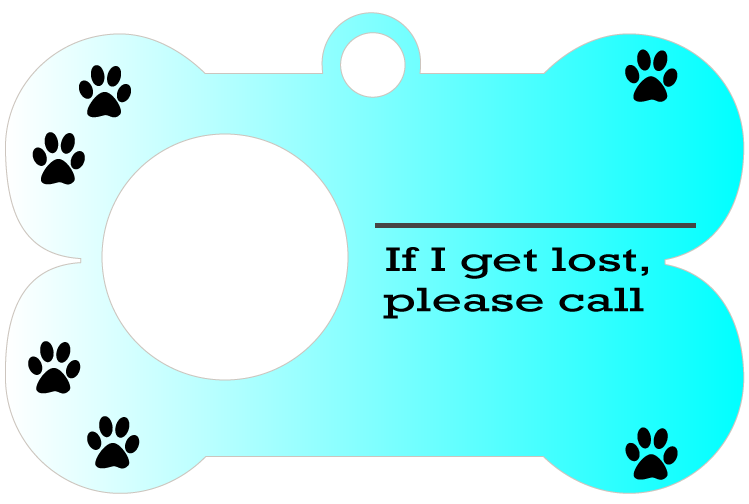
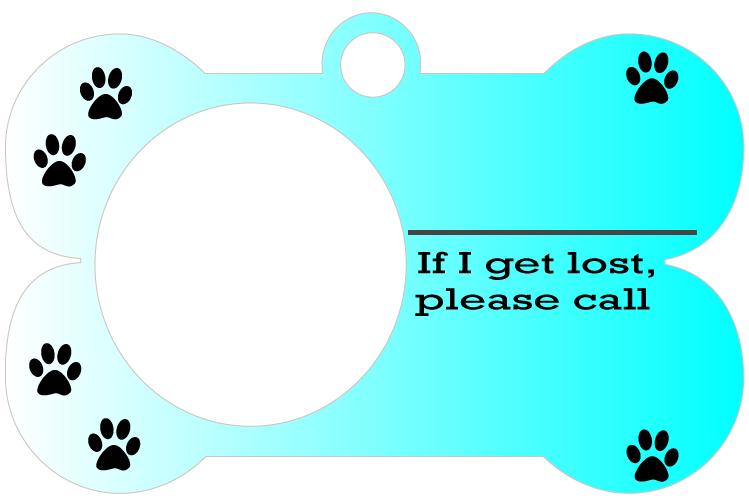
increased photo field size on pet tag bone

diff --git a/client/src/components/PetTagBone/style.scss b/client/src/components/PetTagBone/style.scss
@@ -11,13 +11,13 @@
 }
 .img-preview-petTagBone-wrapper {
 	position: relative;
-	width: 110px;
-	height: 100px;
+	width: 140px;
+	height: 130px;
 	// background-color: #fff;
 	margin-left: 40%;
 	overflow: hidden;
-	top: 50px;
-	left: 12.5%;
+	top: 40px;
+	left: 12%;
 
 	.product-img-preview-petTagBone {
 		width: 100%;
